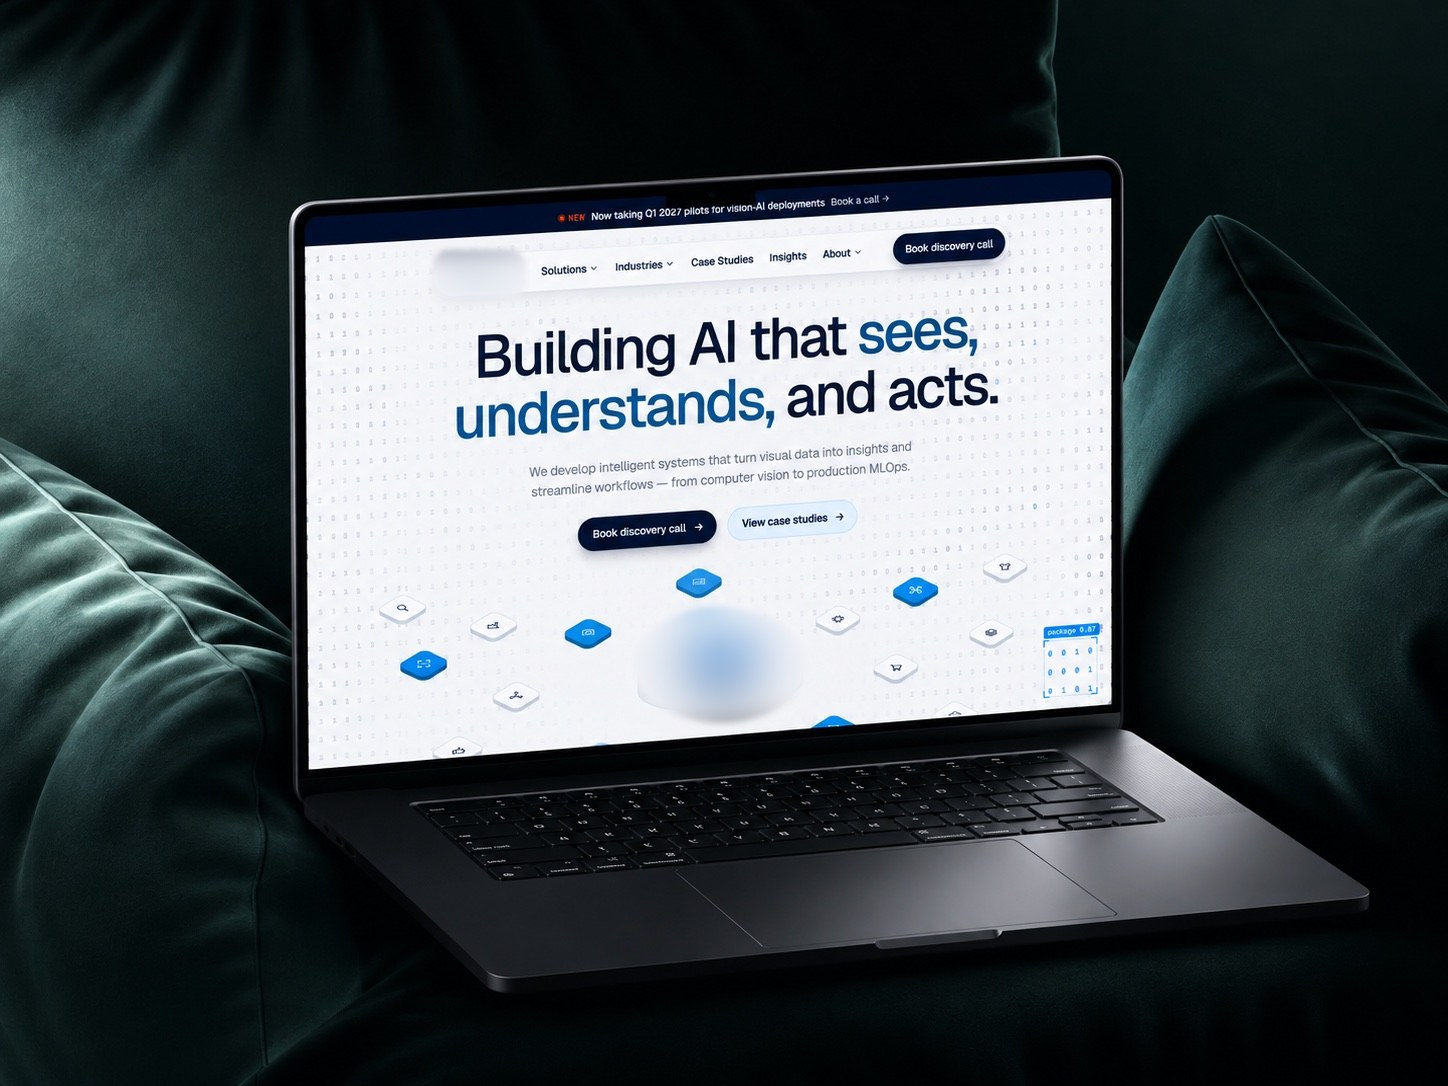
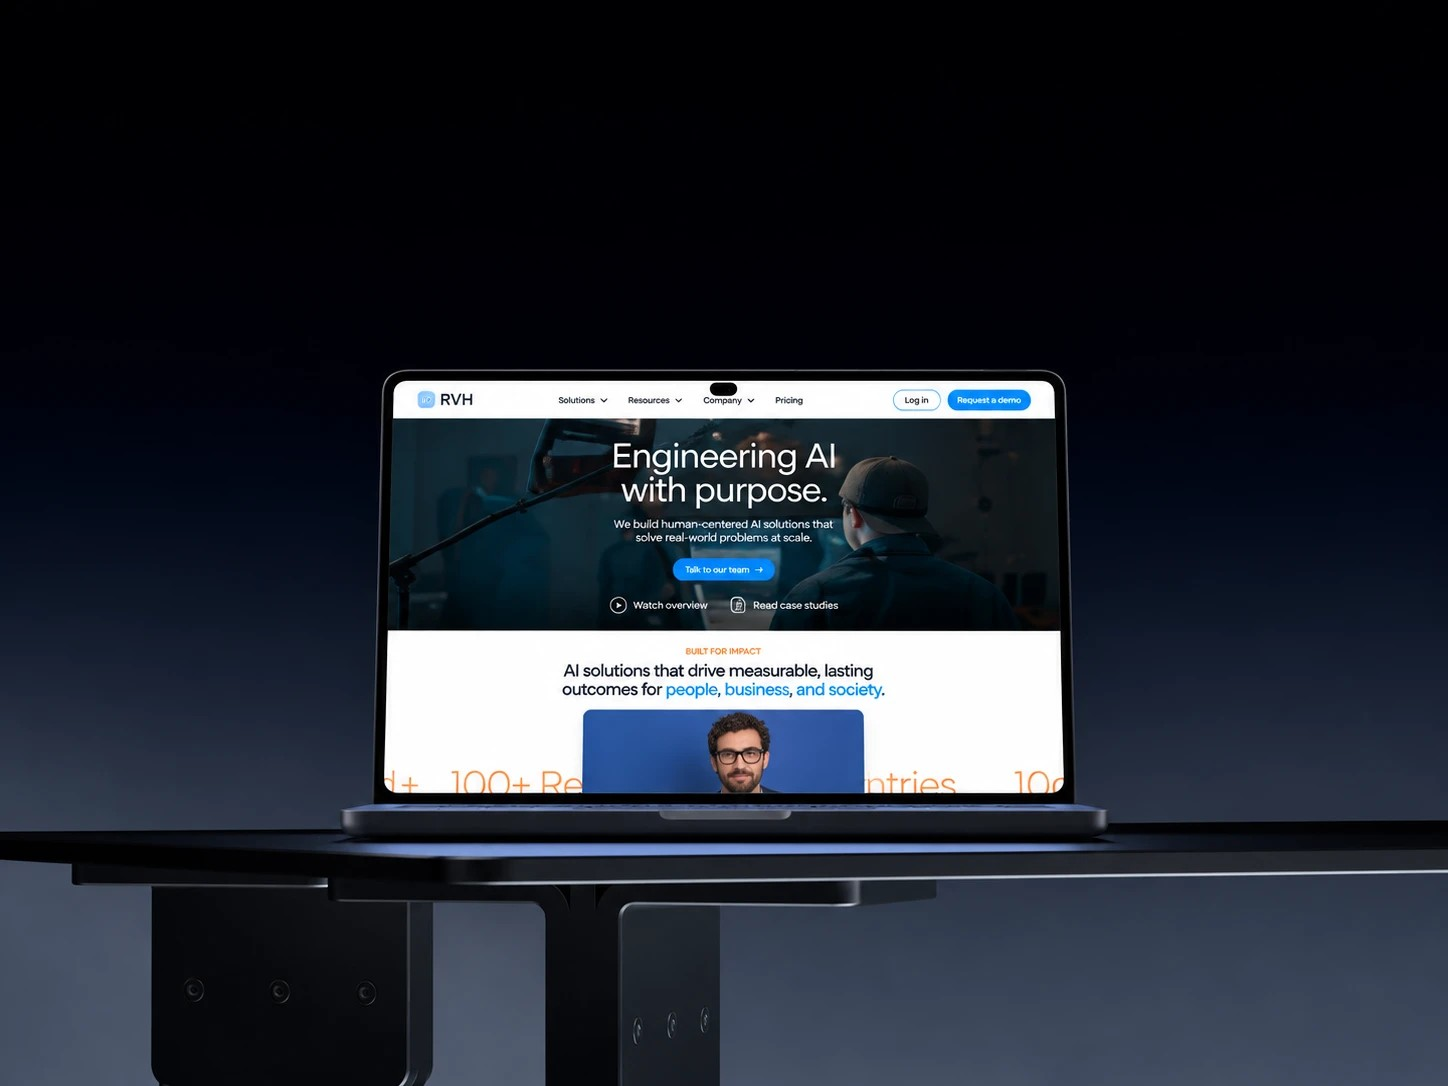
Work card 03: new laptop image

diff --git a/akash-portfolio-sample.html b/akash-portfolio-sample.html
@@ -877,7 +877,7 @@ html.intro-t .hero-copy,html.intro-t .hero .letters,html.intro-t .hero .tile,htm
         <span class="btn ghost"><span class="pill"><span class="lbl" data-t="View work">View work</span></span><span class="chip"><span class="arw"><svg width="16" height="16" viewBox="0 0 16 16" fill="none" aria-hidden="true"><path d="M2.5 8H13M8.5 12.5L13 8L8.5 3.5" stroke="currentColor" stroke-width="1.5"/></svg><svg width="16" height="16" viewBox="0 0 16 16" fill="none" aria-hidden="true"><path d="M2.5 8H13M8.5 12.5L13 8L8.5 3.5" stroke="currentColor" stroke-width="1.5"/></svg></span></span></span>
       </a>
       <a class="work-card fit" href="case-studies/ai-consultancy.html" data-dir="1" data-speed="0.85">
-        <div class="panel"><img src="img/works/ai-consultancy.jpg" alt="Enterprise AI consultancy website homepage on a laptop" loading="lazy"></div>
+        <div class="panel"><img src="img/works/ai-consultancy.jpg" alt="Enterprise AI consultancy website homepage, Engineering AI with purpose, on a laptop" loading="lazy"></div>
         <div class="txt"><span class="no">03</span><h3>Brand and website for an enterprise AI consultancy</h3><p class="sub">Enterprise AI, brand and web · Designer</p></div>
         <span class="btn ghost"><span class="pill"><span class="lbl" data-t="View work">View work</span></span><span class="chip"><span class="arw"><svg width="16" height="16" viewBox="0 0 16 16" fill="none" aria-hidden="true"><path d="M2.5 8H13M8.5 12.5L13 8L8.5 3.5" stroke="currentColor" stroke-width="1.5"/></svg><svg width="16" height="16" viewBox="0 0 16 16" fill="none" aria-hidden="true"><path d="M2.5 8H13M8.5 12.5L13 8L8.5 3.5" stroke="currentColor" stroke-width="1.5"/></svg></span></span></span>
       </a>

diff --git a/index.html b/index.html
@@ -885,7 +885,7 @@ html.intro-t .hero-copy,html.intro-t .hero .letters,html.intro-t .hero .tile,htm
         <span class="btn ghost"><span class="pill"><span class="lbl" data-t="View work">View work</span></span><span class="chip"><span class="arw"><svg width="16" height="16" viewBox="0 0 16 16" fill="none" aria-hidden="true"><path d="M2.5 8H13M8.5 12.5L13 8L8.5 3.5" stroke="currentColor" stroke-width="1.5"/></svg><svg width="16" height="16" viewBox="0 0 16 16" fill="none" aria-hidden="true"><path d="M2.5 8H13M8.5 12.5L13 8L8.5 3.5" stroke="currentColor" stroke-width="1.5"/></svg></span></span></span>
       </a>
       <a class="work-card fit" href="case-studies/ai-consultancy.html" data-dir="1" data-speed="0.85">
-        <div class="panel"><img src="img/works/ai-consultancy.jpg" alt="Enterprise AI consultancy website homepage on a laptop" loading="lazy"></div>
+        <div class="panel"><img src="img/works/ai-consultancy.jpg" alt="Enterprise AI consultancy website homepage, Engineering AI with purpose, on a laptop" loading="lazy"></div>
         <div class="txt"><span class="no">03</span><h3>Brand and website for an enterprise AI consultancy</h3><p class="sub">Enterprise AI, brand and web · Designer</p></div>
         <span class="btn ghost"><span class="pill"><span class="lbl" data-t="View work">View work</span></span><span class="chip"><span class="arw"><svg width="16" height="16" viewBox="0 0 16 16" fill="none" aria-hidden="true"><path d="M2.5 8H13M8.5 12.5L13 8L8.5 3.5" stroke="currentColor" stroke-width="1.5"/></svg><svg width="16" height="16" viewBox="0 0 16 16" fill="none" aria-hidden="true"><path d="M2.5 8H13M8.5 12.5L13 8L8.5 3.5" stroke="currentColor" stroke-width="1.5"/></svg></span></span></span>
       </a>

diff --git a/portfolio.src.html b/portfolio.src.html
@@ -877,7 +877,7 @@ html.intro-t .hero-copy,html.intro-t .hero .letters,html.intro-t .hero .tile,htm
         <span class="btn ghost"><span class="pill"><span class="lbl" data-t="View work">View work</span></span><span class="chip"><span class="arw"><svg width="16" height="16" viewBox="0 0 16 16" fill="none" aria-hidden="true"><path d="M2.5 8H13M8.5 12.5L13 8L8.5 3.5" stroke="currentColor" stroke-width="1.5"/></svg><svg width="16" height="16" viewBox="0 0 16 16" fill="none" aria-hidden="true"><path d="M2.5 8H13M8.5 12.5L13 8L8.5 3.5" stroke="currentColor" stroke-width="1.5"/></svg></span></span></span>
       </a>
       <a class="work-card fit" href="case-studies/ai-consultancy.html" data-dir="1" data-speed="0.85">
-        <div class="panel"><img src="img/works/ai-consultancy.jpg" alt="Enterprise AI consultancy website homepage on a laptop" loading="lazy"></div>
+        <div class="panel"><img src="img/works/ai-consultancy.jpg" alt="Enterprise AI consultancy website homepage, Engineering AI with purpose, on a laptop" loading="lazy"></div>
         <div class="txt"><span class="no">03</span><h3>Brand and website for an enterprise AI consultancy</h3><p class="sub">Enterprise AI, brand and web · Designer</p></div>
         <span class="btn ghost"><span class="pill"><span class="lbl" data-t="View work">View work</span></span><span class="chip"><span class="arw"><svg width="16" height="16" viewBox="0 0 16 16" fill="none" aria-hidden="true"><path d="M2.5 8H13M8.5 12.5L13 8L8.5 3.5" stroke="currentColor" stroke-width="1.5"/></svg><svg width="16" height="16" viewBox="0 0 16 16" fill="none" aria-hidden="true"><path d="M2.5 8H13M8.5 12.5L13 8L8.5 3.5" stroke="currentColor" stroke-width="1.5"/></svg></span></span></span>
       </a>
